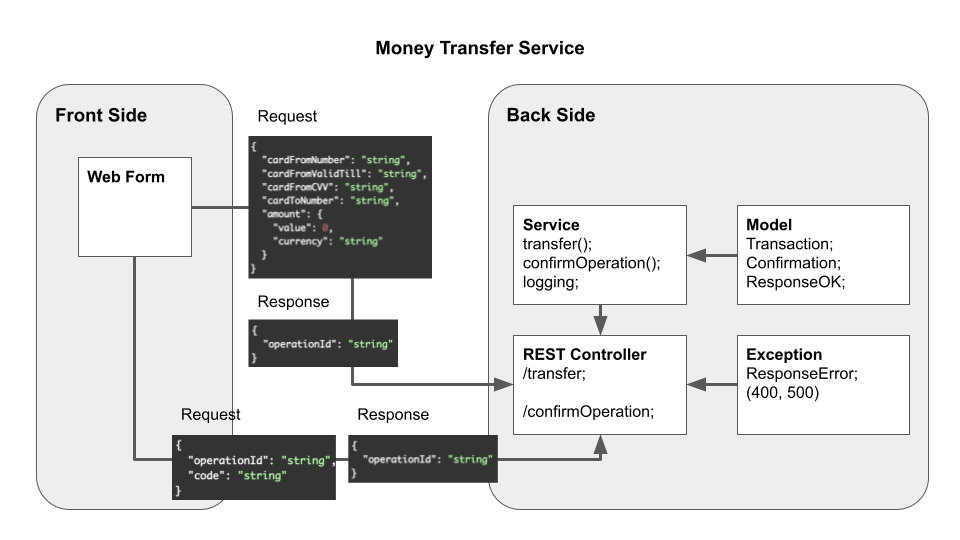
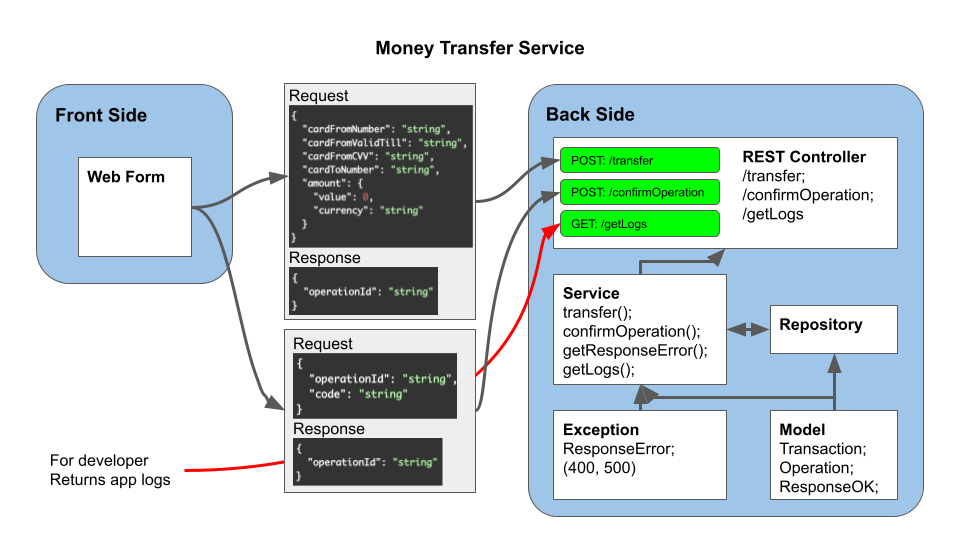
General realization is complete.

diff --git a/src/main/java/com/example/moneytransferapp/service/MoneyTransferServiceImpl.java b/src/main/java/com/example/moneytransferapp/service/MoneyTransferServiceImpl.java
@@ -1,61 +1,77 @@
 package com.example.moneytransferapp.service;
 
 import com.example.moneytransferapp.model.*;
+import com.example.moneytransferapp.repository.MoneyTransferRepositoryImpl;
 import com.fasterxml.jackson.core.JsonProcessingException;
 import com.fasterxml.jackson.databind.ObjectMapper;
 import com.fasterxml.jackson.databind.SerializationFeature;
-import org.slf4j.Logger;
-import org.slf4j.LoggerFactory;
+import org.apache.logging.log4j.LogManager;
+import org.apache.logging.log4j.Logger;
+import org.springframework.beans.factory.annotation.Autowired;
 import org.springframework.http.HttpStatus;
 import org.springframework.http.ResponseEntity;
 import org.springframework.stereotype.Service;
 
 @Service
 public class MoneyTransferServiceImpl implements MoneyTransferService {
-    public static final Logger LOGGER = LoggerFactory.getLogger(MoneyTransferServiceImpl.class);
+    public static final Logger LOGGER = LogManager.getLogger(MoneyTransferServiceImpl.class);
     private final ObjectMapper objectMapper;
+    private final MoneyTransferRepositoryImpl repository;
 
-    public MoneyTransferServiceImpl() {
+    @Autowired
+    public MoneyTransferServiceImpl(MoneyTransferRepositoryImpl repository) {
+        this.repository = repository;
         this.objectMapper = new ObjectMapper();
         this.objectMapper.enable(SerializationFeature.INDENT_OUTPUT);
     }
 
     @Override
-    public ResponseEntity<?> transfer(int id, Transaction transaction) {
-        ResponseEntity<?> responseEntity;
+    public ResponseEntity<?> transfer(Transaction transaction) {
+        int id = repository.registerTransaction(transaction);
+        LOGGER.info("Trying to provide transaction ID {} " +
+                        "from card No {} valid till {} CVV {} to card No {} amount {} {}",
+                id,
+                transaction.getCardFromNumber(),
+                transaction.getCardFromValidTill(),
+                transaction.getCardFromCVV(),
+                transaction.getCardToNumber(),
+                transaction.getAmount().getValue(),
+                transaction.getAmount().getCurrency());
 
-        try {
-            responseEntity = new ResponseEntity<>(
-                    serialize(new ResponseOK().id(id)),
-                    HttpStatus.OK
-            );
-            LOGGER.info("Transaction ID " + id + " has been completed.");
-
-        } catch (Exception e) {
-            throw new RuntimeException(e);
-            //LOGGER.error("Transaction ID " + id + " has been failed cause \"500 Internal server error\".");
-        }
-
-        return responseEntity;
+        return new ResponseEntity<>(serialize(new ResponseOK().id(id)), HttpStatus.OK);
     }
 
     @Override
-    public ResponseEntity<?> confirmOperation(int id, Operation operation) {
-        ResponseEntity<?> responseEntity;
+    public ResponseEntity<?> confirmOperation(Operation operation) {
+        int id = operation.getOperationId();
 
-        try {
-            responseEntity = new ResponseEntity<>(
-                    serialize(new ResponseOK().id(id)),
-                    HttpStatus.OK
-            );
-            LOGGER.info("Transaction ID " + id + " has been confirmed.");
-
-        } catch (Exception e) {
-            //LOGGER.error("Transaction ID " + id + " hasn't been confirmed cause \"500 Internal server error\".");
-            throw new RuntimeException(e);
+        if (id == repository.registerOperation(operation)) {
+            String result = String.format("Transaction ID %d is successful.", id);
+            repository.registerResult(result);
+            LOGGER.info(result);
+            return new ResponseEntity<>(serialize(new ResponseOK().id(id)), HttpStatus.OK);
         }
 
-        return responseEntity;
+        repository.registerResult("Transaction ID " + id + " is failed cause: Session error.");
+        return getResponseError(HttpStatus.OK);
+    }
+
+    @Override
+    public ResponseEntity<String> getResponseError(HttpStatus status) {
+        int id = repository.registerTransaction(null);
+        String result = String.format("Transaction ID %d is failed cause: %d %s.",
+                id, status.value(), status.getReasonPhrase());
+        repository.registerOperation(null);
+        repository.registerResult(result);
+        LOGGER.error(result);
+        return new ResponseEntity<>(
+                serialize(new ResponseError().message(status.getReasonPhrase()).id(id)),
+                status);
+    }
+
+    @Override
+    public String getLogs() {
+        return repository.getLogs();
     }
 
     private <T> String serialize(T obj) {

diff --git a/src/main/java/com/example/moneytransferapp/controller/MoneyTransferController.java b/src/main/java/com/example/moneytransferapp/controller/MoneyTransferController.java
@@ -1,25 +1,15 @@
 package com.example.moneytransferapp.controller;
 
 import com.example.moneytransferapp.model.Operation;
-import com.example.moneytransferapp.model.ResponseError;
 import com.example.moneytransferapp.model.Transaction;
 import com.example.moneytransferapp.service.MoneyTransferService;
-import com.fasterxml.jackson.core.JsonParseException;
-import com.fasterxml.jackson.core.JsonProcessingException;
-import com.fasterxml.jackson.databind.ObjectMapper;
-import com.fasterxml.jackson.databind.SerializationFeature;
 import org.springframework.beans.factory.annotation.Autowired;
-import org.springframework.http.HttpStatus;
 import org.springframework.http.ResponseEntity;
-import org.springframework.http.converter.HttpMessageNotReadableException;
 import org.springframework.web.bind.annotation.*;
 
-import java.util.concurrent.atomic.AtomicInteger;
-
+@CrossOrigin
 @RestController
 public class MoneyTransferController {
-
-    public static AtomicInteger operationId = new AtomicInteger(0);
 
     private final MoneyTransferService moneyTransferService;
 
@@ -30,37 +20,16 @@ public class MoneyTransferController {
 
     @PostMapping(value = "/transfer")
     public ResponseEntity<?> transfer(@RequestBody Transaction transaction) {
-        int id = operationId.incrementAndGet();
-        return moneyTransferService.transfer(id, transaction);
+        return moneyTransferService.transfer(transaction);
     }
 
     @PostMapping(value = "/confirmOperation")
     public ResponseEntity<?> confirmOperation(@RequestBody Operation operation) {
-        int id = operationId.get();
-        return moneyTransferService.confirmOperation(id, operation);
+        return moneyTransferService.confirmOperation(operation);
     }
 
-    @ExceptionHandler({HttpMessageNotReadableException.class, JsonParseException.class})
-    ResponseEntity<String> handleBadRequestException() {
-        return new ResponseEntity<>(
-                serialize(new ResponseError().id(MoneyTransferController.operationId.get())),
-                HttpStatus.BAD_REQUEST
-        );
-    }
-
-    @ExceptionHandler(RuntimeException.class)
-    ResponseEntity<String> handleRuntimeException() {
-        return new ResponseEntity<>(
-                serialize(new ResponseError().id(MoneyTransferController.operationId.get())),
-                HttpStatus.INTERNAL_SERVER_ERROR
-        );
-    }
-
-    private <T> String serialize(T obj) {
-        try {
-            return new ObjectMapper().enable(SerializationFeature.INDENT_OUTPUT).writeValueAsString(obj);
-        } catch (JsonProcessingException e) {
-            throw new RuntimeException(e);
-        }
+    @GetMapping(value = "getLogs")
+    public String getLogs() {
+        return moneyTransferService.getLogs();
     }
 }

diff --git a/src/main/java/com/example/moneytransferapp/repository/MoneyTransferRepositoryImpl.java b/src/main/java/com/example/moneytransferapp/repository/MoneyTransferRepositoryImpl.java
@@ -1,0 +1,61 @@
+package com.example.moneytransferapp.repository;
+
+import com.example.moneytransferapp.model.Operation;
+import com.example.moneytransferapp.model.Transaction;
+import org.springframework.stereotype.Repository;
+
+import java.time.LocalDateTime;
+import java.time.format.DateTimeFormatter;
+import java.util.ArrayList;
+
+@Repository
+public class MoneyTransferRepositoryImpl implements MoneyTransferRepository {
+
+    private final ArrayList<Transaction> transactions;
+    private final ArrayList<Operation> operations;
+    private final ArrayList<String> results;
+
+    public MoneyTransferRepositoryImpl() {
+        transactions = new ArrayList<>();
+        operations = new ArrayList<>();
+        results = new ArrayList<>();
+    }
+
+    @Override
+    public int registerTransaction(Transaction transaction) {
+        transactions.add(transaction);
+        return transactions.indexOf(transaction) + 1;
+    }
+
+    @Override
+    public int registerOperation(Operation operation) {
+        operations.add(operation);
+        return operations.indexOf(operation) + 1;
+    }
+
+    @Override
+    public void registerResult(String result) {
+        results.add(result);
+    }
+
+    @Override
+    public String getLogs() {
+        DateTimeFormatter dateFormatter = DateTimeFormatter.ofPattern("yyyy/MM/dd");
+        LocalDateTime localDate = LocalDateTime.now();
+
+        StringBuilder logs = new StringBuilder();
+        logs.append("Progress report of Money Transfer Service program execution for the date ");
+        logs.append(dateFormatter.format(localDate));
+        logs.append("\n");
+
+        for (int i = 0; i < transactions.size(); i++) {
+            logs.append("\t").append(i + 1).append(".");
+            logs.append(" Transaction ").append(this.transactions.get(i));
+            logs.append(" ").append(this.operations.get(i));
+            logs.append(" was completed with result: ").append(this.results.get(i));
+            logs.append("\n");
+        }
+
+        return logs.toString();
+    }
+}

diff --git a/src/main/java/com/example/moneytransferapp/exception/MoneyTransferExceptionHandler.java b/src/main/java/com/example/moneytransferapp/exception/MoneyTransferExceptionHandler.java
@@ -1,0 +1,31 @@
+package com.example.moneytransferapp.exception;
+
+import com.example.moneytransferapp.service.MoneyTransferService;
+import com.fasterxml.jackson.core.JsonParseException;
+import org.springframework.beans.factory.annotation.Autowired;
+import org.springframework.http.HttpStatus;
+import org.springframework.http.ResponseEntity;
+import org.springframework.http.converter.HttpMessageNotReadableException;
+import org.springframework.web.bind.annotation.ControllerAdvice;
+import org.springframework.web.bind.annotation.ExceptionHandler;
+
+@ControllerAdvice
+public class MoneyTransferExceptionHandler {
+
+    private final MoneyTransferService moneyTransferService;
+
+    @Autowired
+    public MoneyTransferExceptionHandler(MoneyTransferService moneyTransferService) {
+        this.moneyTransferService = moneyTransferService;
+    }
+
+    @ExceptionHandler({HttpMessageNotReadableException.class, JsonParseException.class})
+    ResponseEntity<String> handleBadRequestException() {
+        return moneyTransferService.getResponseError(HttpStatus.BAD_REQUEST);
+    }
+
+    @ExceptionHandler(RuntimeException.class)
+    ResponseEntity<String> handleRuntimeException() {
+        return moneyTransferService.getResponseError(HttpStatus.INTERNAL_SERVER_ERROR);
+    }
+}

diff --git a/src/main/java/com/example/moneytransferapp/model/Operation.java b/src/main/java/com/example/moneytransferapp/model/Operation.java
@@ -11,8 +11,18 @@ public class Operation {
     @JsonProperty(value = "code")
     private String code;
 
-    public String getOperationId() {
-        return operationId;
+    public Operation operationId(String operationId) {
+        this.operationId = operationId;
+        return this;
+    }
+
+    public Operation code(String code) {
+        this.code = code;
+        return this;
+    }
+
+    public int getOperationId() {
+        return Integer.parseInt(operationId);
     }
 
     public void setOperationId(String operationId) {
@@ -25,5 +35,11 @@ public class Operation {
 
     public void setCode(String code) {
         this.code = code;
+    }
+
+    public String toString() {
+        return String.format("using operating ID %s with code %s",
+                getOperationId(),
+                getCode());
     }
 }

diff --git a/src/main/java/com/example/moneytransferapp/service/MoneyTransferService.java b/src/main/java/com/example/moneytransferapp/service/MoneyTransferService.java
@@ -2,11 +2,16 @@ package com.example.moneytransferapp.service;
 
 import com.example.moneytransferapp.model.Operation;
 import com.example.moneytransferapp.model.Transaction;
+import org.springframework.http.HttpStatus;
 import org.springframework.http.ResponseEntity;
 
 public interface MoneyTransferService {
 
-    ResponseEntity<?> transfer(int id, Transaction transaction);
+    ResponseEntity<?> transfer(Transaction transaction);
 
-    ResponseEntity<?> confirmOperation(int id, Operation operation);
+    ResponseEntity<?> confirmOperation(Operation operation);
+
+    ResponseEntity<String> getResponseError(HttpStatus status);
+
+    String getLogs();
 }

diff --git a/src/main/java/com/example/moneytransferapp/model/Transaction.java b/src/main/java/com/example/moneytransferapp/model/Transaction.java
@@ -60,4 +60,10 @@ public class Transaction {
         this.amount = amount;
         return this;
     }
+
+    public String toString() {
+        return String.format("from card No %s (valid till %s CVV is %s) to card No %s amount is %.2f %s",
+                getCardFromNumber(), getCardFromValidTill(), getCardFromCVV(), getCardToNumber(),
+                (float)(getAmount().getValue()/100), getAmount().getCurrency());
+    }
 }

diff --git a/src/main/java/com/example/moneytransferapp/repository/MoneyTransferRepository.java b/src/main/java/com/example/moneytransferapp/repository/MoneyTransferRepository.java
@@ -1,0 +1,14 @@
+package com.example.moneytransferapp.repository;
+
+import com.example.moneytransferapp.model.Operation;
+import com.example.moneytransferapp.model.Transaction;
+
+public interface MoneyTransferRepository {
+    int registerTransaction(Transaction transaction);
+
+    int registerOperation(Operation operation);
+
+    void registerResult(String result);
+
+    String getLogs();
+}

diff --git a/README.md b/README.md
@@ -3,20 +3,40 @@
 ### Общие сведения
 
 Приложение представляет собой интерфейс (REST-сервис), основная задача которого - перевод денег с одной карты на другую по заранее описанной спецификации.
-Приложение "Сервис перевода денег" работает в паре с веб-приложением и использует его функционал для перевода денег.
+Приложение "Сервис перевода денег" работает в паре с веб-приложением и использует его функционал.
+
+### Архитектура приложения и настройки
+
+Адрес и порт приложения описаны в файле `application.properties`.
+Контроллер представляет собой "публичную часть" приложения и воспринимает запросы по следующим входам:
+- **POST: /transfer** ожидает json объект с параметрами карты отправления, принимающей карты и суммы транзакции. Возвращает Id сгенерированной транзакции и HttpStatus с результатом обработки запроса. <br>
+- **POST: /confirmOperation** ожидает json объект с полученной в результате запроса на входе `/transfer` Id транзакции и проверочного кода (эмуляция SMS), Возвращает Id сгенерированной транзакции и HttpStatus с результатом обработки запроса. <br>
+- **GET: /getLogs** возвращает сгенерированный отчет о выполненных операциях.<br>
+
+Репозиторий представляет собой "скрытую часть" приложения и хранит все необходимые сущности: 
+- информация о транзакциях (карта отправления, карта получения, сумма)
+- информация о проверочном коде SMS для каждой транзакции
+- информация о результатах транзакций (удача/неудача).
+
+Контроллер и Репозиторий связаны Сервисом, который выполняет роль утилиты.
+
+### Сборка приложения и контейнеризация
+
+Проект выполнен с использованием сборщика Maven.
+Для запуска приложения используется Docker
 
 ### Текущий прогресс
 
 * Нарисована схема приложений
+* Описать архитектуру приложения (где хранятся настройки, описать формат хранения данных о картах)
 * При разработке использовался Spring Boot
-* Использован сборщик пакетов maven
+* Использован сборщик пакетов Maven
 * Код размещен на отдельном репозитории github
+* Подключить механизм логирования произведенных операций
+* Организовать хранение информации о произведенных операциях
 
 ### Необходимо выполнить
 
-* Откорректировать проект в части корректной обработки исключений
-* Подключить механизм логирования произведенных операций
-* Описать архитектуру приложения (где хранятся настройки, описать формат хранения данных о картах)
 * Написать unit тесты с использованием mockito
 * Написать интеграционные тесты с использованием testcontainers
 * Создать соответствующие файлы для размещения приложения в docker, docker-compose
